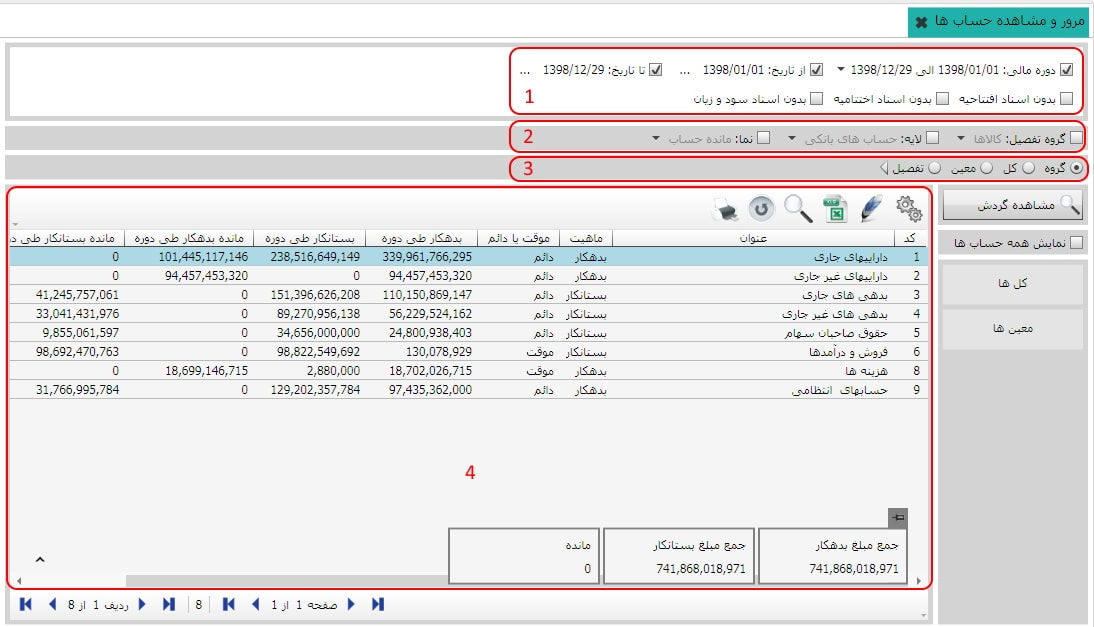
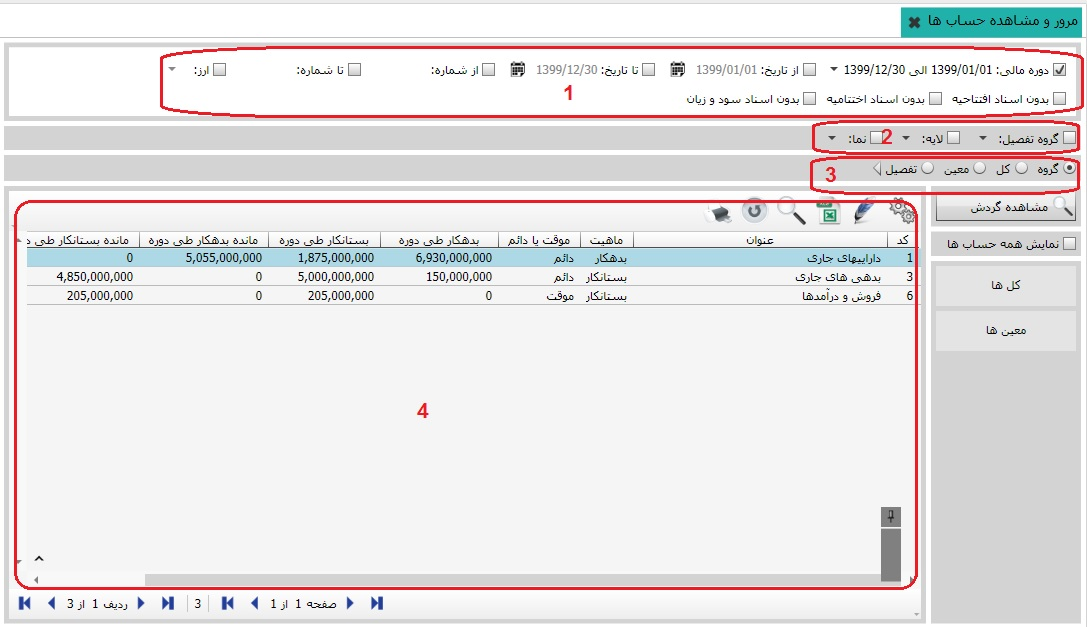
مرور و مشاهده ی حساب تفصیل

diff --git a/Help/fa-IR/_03_مالی و حسابداری/_12_مرور و مشاهده حساب تفصیل/Index.html b/Help/fa-IR/_03_مالی و حسابداری/_12_مرور و مشاهده حساب تفصیل/Index.html
@@ -49,6 +49,11 @@
 		در صورت استفاده از این گزینه سیستم تنها گردش های موجود در بازه ی زمانی
 		تعیین شده را نمایش می دهد.
 	</p>
+	<img class="picintext" src="g6.jpg" />
+	<p>
+		با استفاده از این گزینه می توانید شماره ی اسناد را فیلتر کنید و فقط
+		اسنادی که شماره ی آنها فیلتر شده را ببینید.
+	</p>
 	<img class="picintext" src="g3.jpg" />
 	<p>
 		در صورت اعمال این گزینه سیستم سند های افتتاحیه را در گردش ها نمایش نمی دهد.
@@ -65,7 +70,7 @@
 	<strong class="title">کادر شماره 2:</strong>
 	<p>
 		در این کادر می توانید گروه تفصیل، لایه ی حساب و نمای مورد
-		 نظر خود را تعیین کنید و پس از تعیین در کادر شماره ی سه گزارش مربوطه را مشاهده نمایید.
+		نظر خود را تعیین کنید و پس از تعیین در کادر شماره ی سه گزارش مربوطه را مشاهده نمایید.
 
 
 

diff --git a/Help/fa-IR/_03_مالی و حسابداری/_11_مرور و مشاهده حساب ها/Index.html b/Help/fa-IR/_03_مالی و حسابداری/_11_مرور و مشاهده حساب ها/Index.html
@@ -45,6 +45,11 @@
 		در صورت استفاده از این گزینه سیستم تنها گردش های موجود در بازه ی زمانی
 		تعیین شده را نمایش می دهد.
 	</p>
+	<img class="picintext" src="g8.jpg" />
+	<p>
+		با استفاده از این گزینه می توانید شماره ی اسناد را فیلتر کنید و فقط 
+		اسنادی که شماره ی آنها فیلتر شده را ببینید. 
+	</p>
 	<img class="picintext" src="g3.jpg" />
 	<p>
 		در صورت اعمال این گزینه سیستم سند های افتتاحیه را در گردش ها نمایش نمی دهد.
